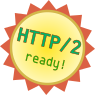
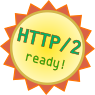
http2 ready better sticker

diff --git a/app/assets/css/styles.css b/app/assets/css/styles.css
@@ -65,6 +65,11 @@ body {
     right: 5px;
   }
 }
+@media screen and (max-width: 355px){
+  .header div.nginx {
+    left: 230px;
+  }
+}
 
 .header ul.navigation {
   position: relative;
